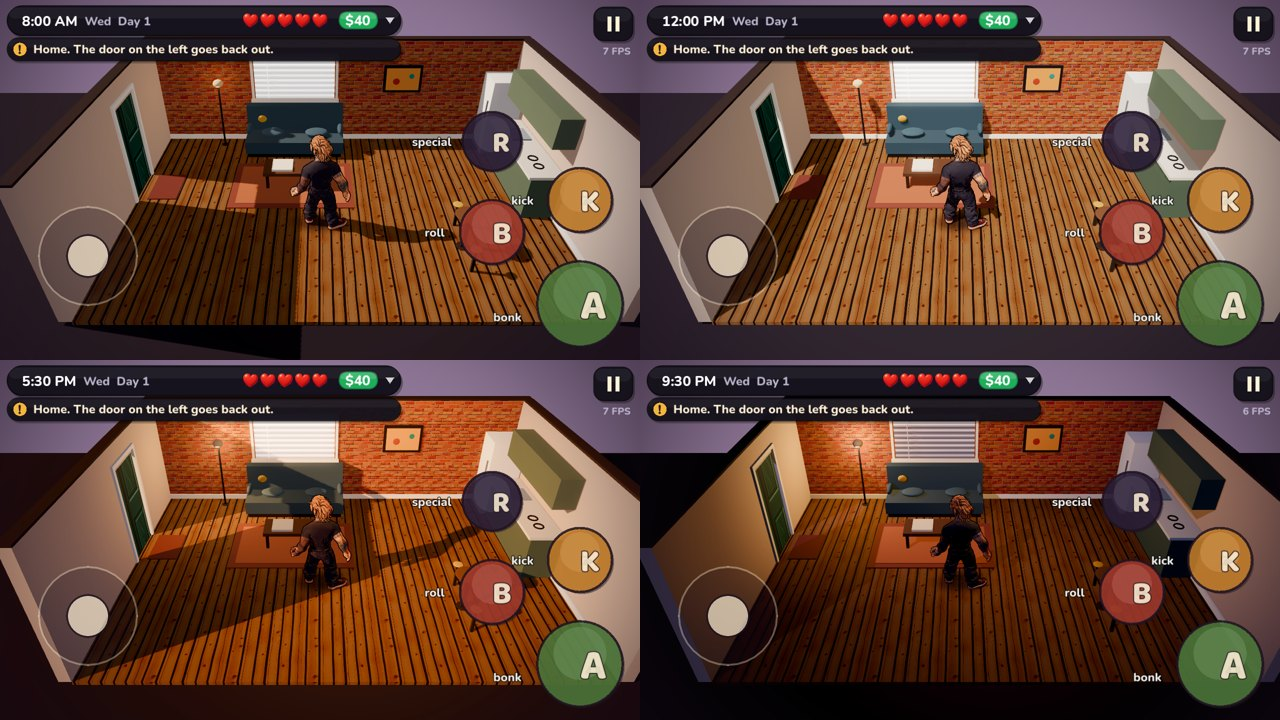
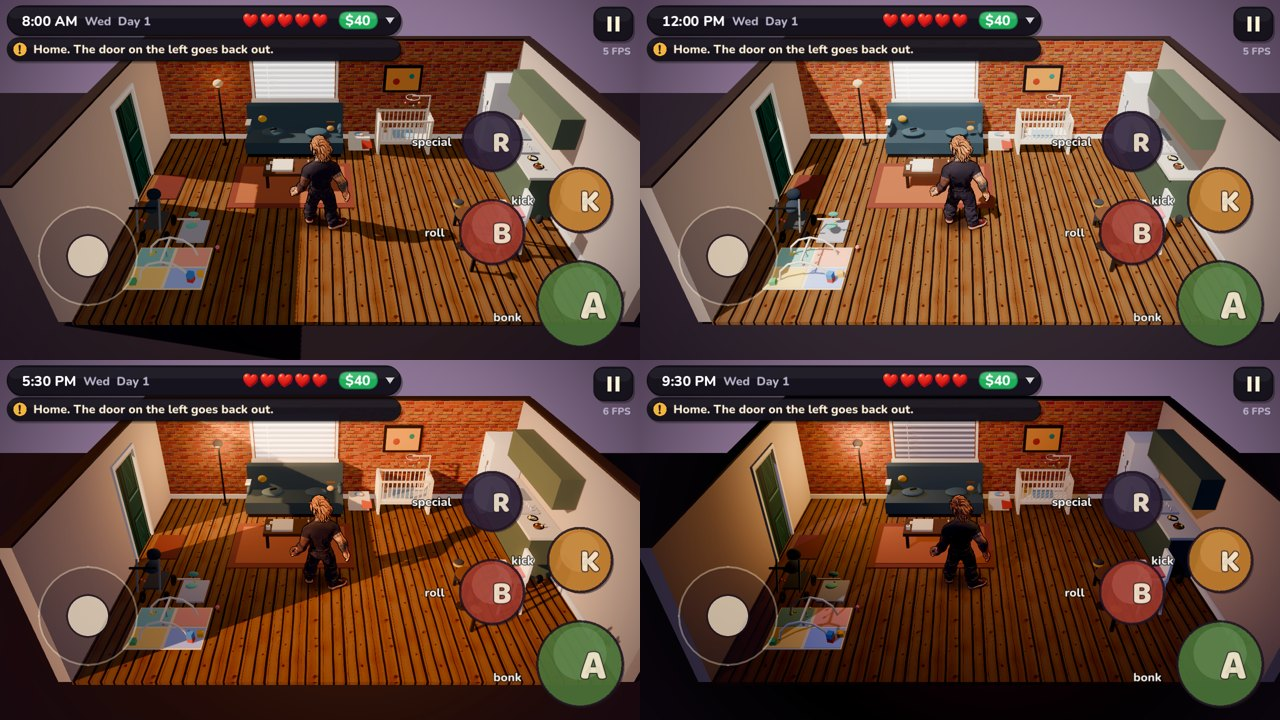
Porch 3D home: baby things and everyday clutter (Duff: more lived in)
Claude-Session: https://claude.ai/code/session_01V3sbxL1VHrbJsUbckWWsbg

diff --git a/spike_full3d/README.md b/spike_full3d/README.md
@@ -179,7 +179,9 @@ repo; their photos never go here. Not in a scene yet (phase 4: home and the bloc
   `--zone=apartment` starts at home with nobody to fight.
 - The apartment (`zone_apartment.gd`) is built free (Godot shapes + kit textures, 0 credits): cutaway room,
   exposed brick, couch under the window facing the camera, coffee table, kitchenette + fridge, table and
-  stools, floor lamp, ceiling light, door back out. `spots` (couch seats, kitchen, table, door) are where
+  stools, and the baby's things (crib + mobile, play mat + gym + toys, bouncer, high chair, stroller, bottles,
+  monitor) plus clutter (laundry, shoes, mail, diaper bag, fridge drawings, plant, jacket). Also
+  floor lamp, ceiling light, door back out. Render `docs/renders/porch3d/27_home_lived_in.jpg`. `spots` (couch seats, kitchen, table, door) are where
   Madison and Brittany will stand at home (phase 4).
 - Explore camera (`porch_camera.gd` mode `explore`): higher, wider, follows Duff; each zone sets its bounds.
   Fights keep the low brawler camera.
